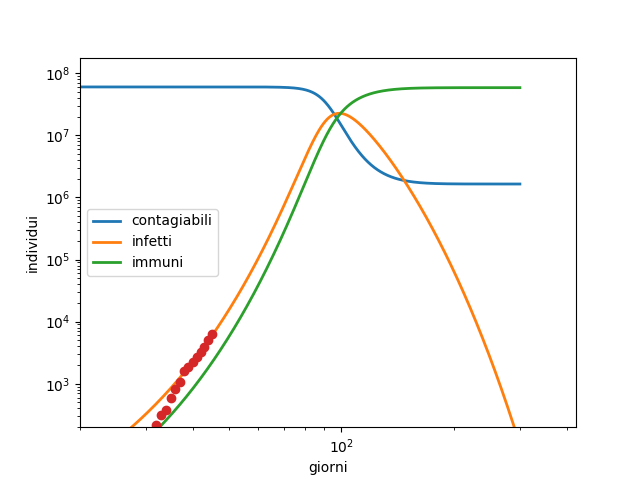
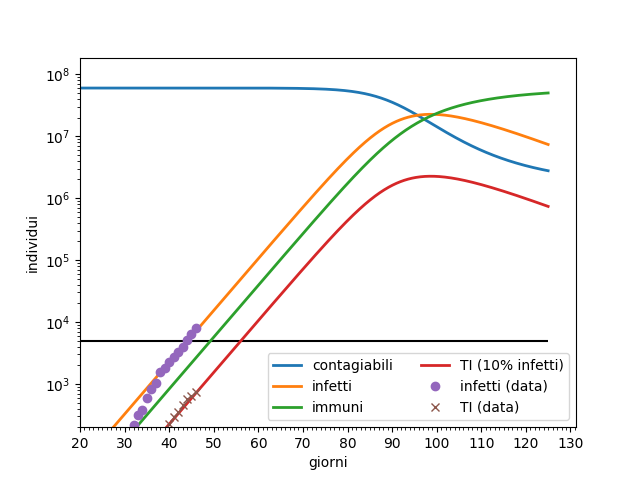
9 march data

diff --git a/sir.py b/sir.py
@@ -1,7 +1,10 @@
 # https://scipython.com/book/chapter-8-scipy/additional-examples/the-sir-epidemic-model/
+#https://raw.githubusercontent.com/pcm-dpc/COVID-19/master/dati-andamento-nazionale/dpc-covid19-ita-andamento-nazionale.csv
 import numpy as np
 from scipy.integrate import odeint
 import matplotlib.pyplot as plt
+from matplotlib.ticker import MultipleLocator
+
 
 # Total population, N.
 N = int(6e7)
@@ -18,7 +21,7 @@ gamma = 1. / 14. # recovery, 1/days
 beta = rnot * gamma  # beta factor
 
 # max days
-xmax = 3e2
+xmax = 125.
 
 # A grid of time points (in days)
 t = np.linspace(0, xmax, 1000)
@@ -43,15 +46,19 @@ S, I, R = ret.T
 # Plot the data on three separate curves for S(t), I(t) and R(t)
 fig = plt.figure(facecolor='w')
 ax = fig.add_subplot(111)
-plot = ax.loglog
+plot = ax.semilogy
 plot(t, S, lw=2, label='contagiabili')
 plot(t, I, lw=2, label='infetti')
 plot(t, R, lw=2, label='immuni')
 
+plot(t, I / 10., lw=2, label='TI (10% infetti)')
+plt.hlines(5e3, 0, max(t))
+
 # plot data
 xdata = np.arange(len(data[5])) + 32
 ydata = data[5]
-plot(xdata, ydata, lw=0, marker="o")
+plot(xdata, ydata, lw=0, marker="o", label="infetti (data)")
+plot(xdata, data[2], lw=0, marker="x", label="TI (data)")
 
 ax.set_xlabel('giorni')
 ax.set_ylabel('individui')
@@ -60,11 +67,10 @@ ax.set_ylabel('individui')
 ax.set_xlim(xmin=20)
 ax.set_ylim(ymin=200)
 
-# range zoom data
-#ax.set_xlim(min(xdata)*0.9, max(xdata)*1.1)
-#ax.set_ylim(min(ydata)*0.9, max(ydata)*1.1)
+ax.xaxis.set_minor_locator(MultipleLocator(1))
+ax.xaxis.set_major_locator(MultipleLocator(10))
 
-legend = ax.legend(loc="best")
+legend = ax.legend(loc="best", ncol=2)
 
 #plt.show()
 plt.savefig("sir.png")
